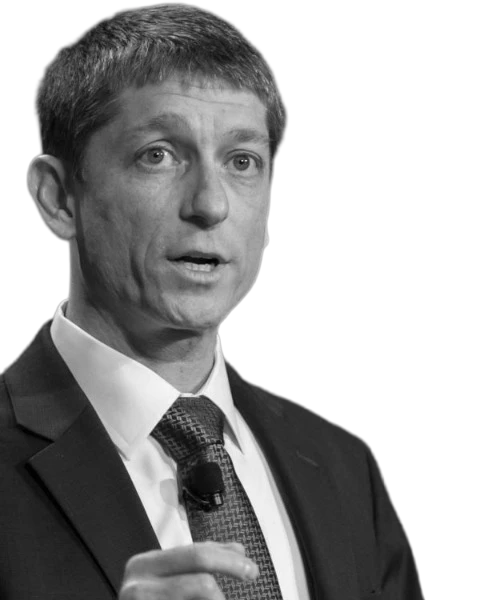
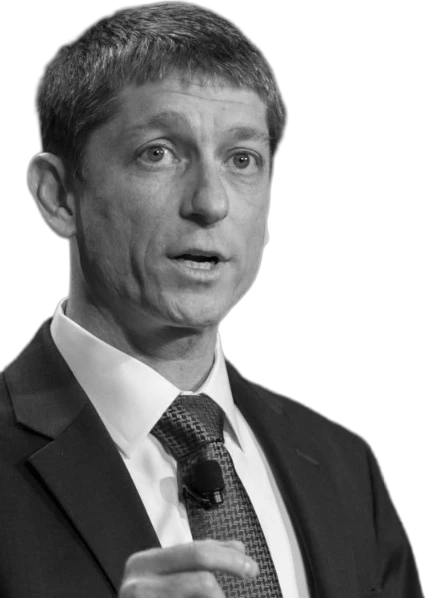
Testimonial photo: trim empty edge, head room on top, flush to the sides
Claude-Session: https://claude.ai/code/session_01WyWtLkS7WfgVKMmiB4tAwe

diff --git a/assets/css/site.css b/assets/css/site.css
@@ -240,7 +240,7 @@ img{display:block;max-width:none;user-select:none;-webkit-user-drag:none}
 /* the person's photo on the same backdrop as the success-story cards */
 .quote-photo{position:relative;width:min(217px,80%);aspect-ratio:217/250;overflow:hidden;border:1px solid var(--line);border-radius:2px;
   background:#0A0A1A url(../img/story-bg.webp) center bottom/cover no-repeat}
-.quote-photo img{position:absolute;left:50%;bottom:0;width:94%;height:auto;transform:translateX(-50%)}
+.quote-photo img{position:absolute;left:-1px;top:11%;width:calc(100% + 2px);height:auto}   /* head room on top, flush to the sides; the torso runs off the bottom */
 .stack-end{height:clamp(140px,12vw,190px)}
 
 /* contact (revealed underneath the stack) */
